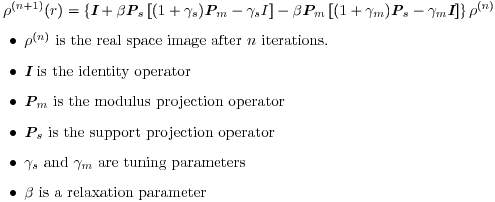
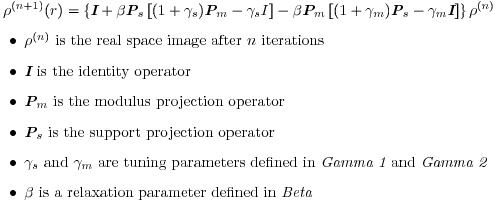
Improve documentation and move the output_projection option to advanced

Changed region(s): [[0.4848, 0.7723, 1.0, 0.8317], [0.4242, 0.9208, 0.6364, 0.9802]]

diff --git a/src/metadata.c b/src/metadata.c
@@ -175,11 +175,11 @@ $\rho^{(n+1)}(r) = \begin{cases}
 \end{cases}
 $
 \begin{itemize}
-\item $\rho^{(n)}$ is the real space image after $n$ iterations.
+\item $\rho^{(n)}$ is the real space image after $n$ iterations
 \item $S$ is the support
 \item ${\textbf{\em I}}$ is the identity operator
 \item ${\textbf{\em P}}_m$ is the modulus projection operator
-\item $\beta$ is a relaxation parameter
+\item $\beta$ is a relaxation parameter defined in {\em Beta}
 \end{itemize}
 ##LaTeX code end##
 */
@@ -195,12 +195,12 @@ DM formula
 $\rho^{(n+1)}(r) = \left\{{\textbf{\em I}} + \beta {\textbf{\em P}}_s \left[(1+\gamma_s) {\textbf{\em P}}_m-\gamma_s I\right] - \beta {\textbf{\em P}}_m\left[(1+\gamma_m){\textbf{\em P}}_s-\gamma_m {\textbf{\em I}}\right]\right\} \rho^{(n)}
 $
 \begin{itemize}
-\item $\rho^{(n)}$ is the real space image after $n$ iterations.
+\item $\rho^{(n)}$ is the real space image after $n$ iterations
 \item ${\textbf{\em I}}$ is the identity operator
 \item ${\textbf{\em P}}_m$ is the modulus projection operator
 \item ${\textbf{\em P}}_s$ is the support projection operator
-\item $\gamma_s$ and $\gamma_m$ are tuning parameters
-\item $\beta$ is a relaxation parameter
+\item $\gamma_s$ and $\gamma_m$ are tuning parameters defined in {\em Gamma 1} and {\em Gamma 2} 
+\item $\beta$ is a relaxation parameter defined in {\em Beta}
 \end{itemize}
 
 ##LaTeX code end##
@@ -223,7 +223,7 @@ $
 \item ${\textbf{\em P}}_s$ is the support projection operator
 \item ${\textbf{\em R}}_m = 2{\textbf{\em P}}_m - {\textbf{\em I}}$
 \item ${\textbf{\em R}}_s = 2{\textbf{\em P}}_s - {\textbf{\em I}}$
-\item $\beta$ is a relaxation parameter
+\item $\beta$ is a relaxation parameter defined in {\em Beta}
 \end{itemize}
 ##LaTeX code end##
 */
@@ -278,6 +278,34 @@ static const char support_update_algorithm_threshold_doc[] = "<p>Define the supp
 \item $\sigma$ is given by the current value of {\em Blur}
 \item $t$ is given by the current value of {\em Intensity Threshold}
 \item $\Pi$ is the new support.
+\end{itemize}
+
+##LaTeX code end##
+*/
+
+
+
+/* Phasing algorithms projections description 
+##LaTeX code begin for file HawkGUI/images/phasing_projections_formula.png##
+${\textbf{\em P}}_m(\rho) = \mathcal{F}^{-1}\left(\frac{\mathcal{F}(\rho)}{|\mathcal{F}(\rho)|} \cdot \sqrt I\right)$
+
+\begin{itemize}
+\item $\rho$ is the real space image
+\item $I$ are the experimental intensities
+\item ${\mathcal{F}}$ is the Fourier transform
+\item ${\textbf{\em P}}_m$ is the modulus projection operator
+\end{itemize}
+
+${\textbf{\em P}}_s\left(\rho\left(r\right)\right) = \begin{cases}
+\rho(r)  & \mbox{if } r \in S \\ \\
+0  & \mbox{if } r \notin S \\
+\end{cases}
+$
+\begin{itemize}
+\item $r$ is a position in real space
+\item $\rho$ is the real space image
+\item $S$ is the support
+\item ${\textbf{\em P}}_s$ is the support projection operator
 \end{itemize}
 
 ##LaTeX code end##
@@ -1969,7 +1997,9 @@ VariableMetadata variable_metadata[] = {
     .list_valid_names = {"hio","raar","diff_map","hpr","cflip","raar_cflip","espresso","haar","so2d","raar_proj", "hio_proj",0},
     .list_properties = {0,0,0,experimental,experimental,experimental,experimental,experimental,experimental,experimental,experimental,0},
     .variable_address = &(global_options.algorithm),
-    .documentation = "<p>The type of algorithm used during the phase retrieval. A few other options then depend on the type of algorithm chosen.</p><p>Please check the individual algorithm documentation for more information.</p>",
+    .documentation = "<p>The type of algorithm used during the phase retrieval. A few other options then depend on the type of algorithm chosen.</p><p>The following projections are used in the description of the algorithms:</p>"
+    "<p><center><img src=\":/images/phasing_projections_formula.png\"></center></p>"
+    "<p>Please check the individual algorithm documentation for more information.</p>",
     .dependencies = NULL,
     .list_documentation = {phasing_algorithm_hio_doc,phasing_algorithm_raar_doc,
 			   phasing_algorithm_dm_doc,0},
@@ -2210,7 +2240,7 @@ VariableMetadata variable_metadata[] = {
     .variable_type = Type_MultipleChoice,
     .id = Id_Output_Projection,
     .parent = &(variable_metadata[20]),
-    .variable_properties = isSettableBeforeRun|isSettableDuringRun|isGettableBeforeRun|isGettableDuringRun,
+    .variable_properties = isSettableBeforeRun|isSettableDuringRun|isGettableBeforeRun|isGettableDuringRun|advanced,
     .list_valid_values = {IntensitiesProjection,NoProjection,0},
     .list_valid_names = {"project_intensities","no_projection",0},
     .list_properties = {0,0,0},
